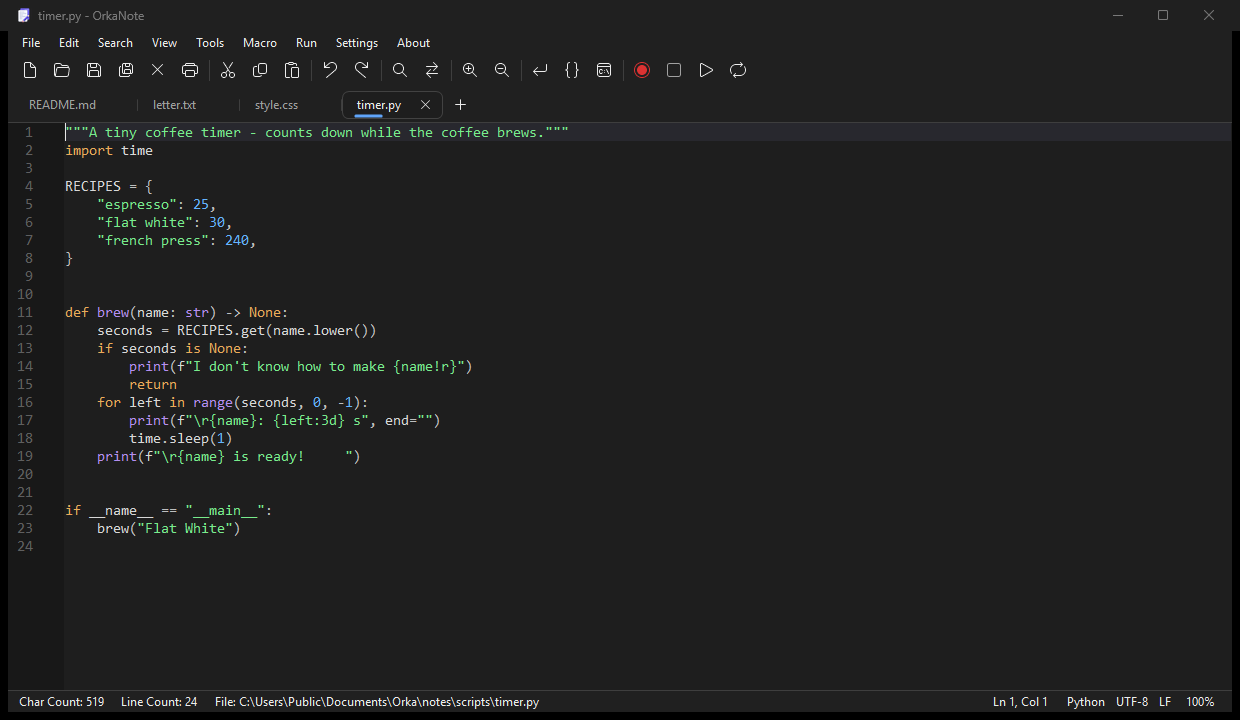
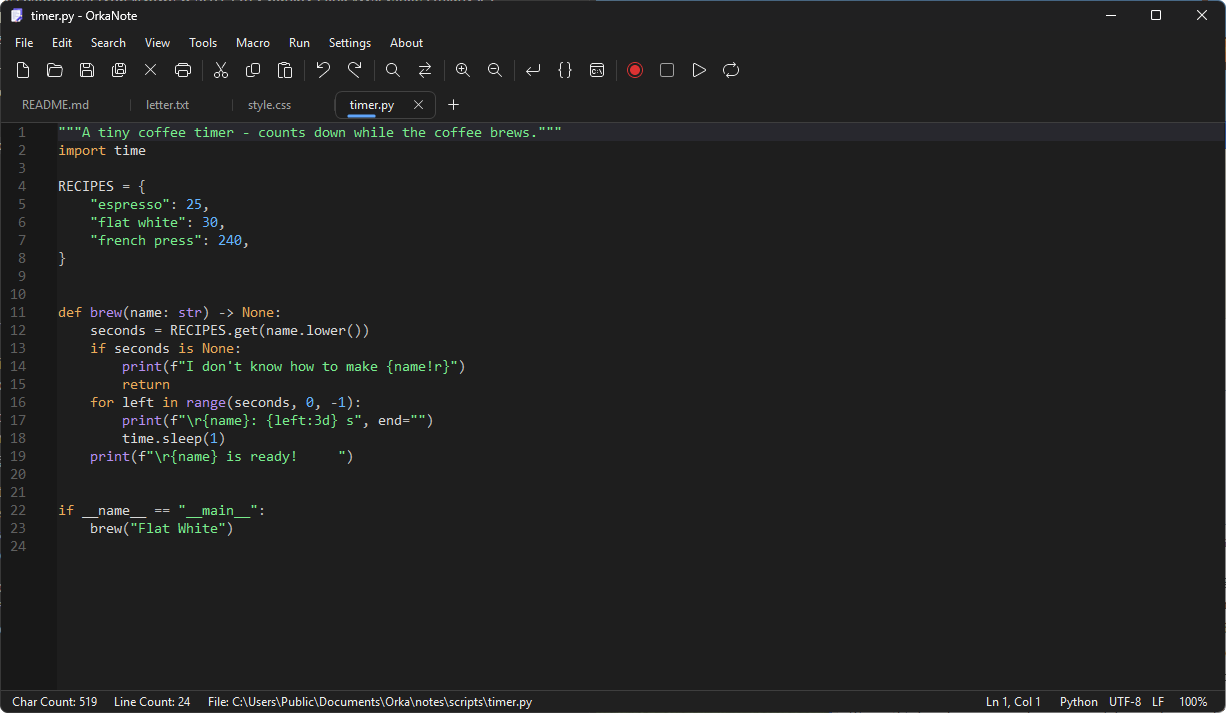
README: 3.1.1, new screenshots

diff --git a/README.md b/README.md
@@ -6,7 +6,7 @@ A Notepad for Windows with tabs that come back after closing, colours for code, 
 
 **[Download the latest version](https://github.com/cyz-yt/OrkaNote/releases/latest)** · [Website](https://cyzs-retroweb.rf.gd/orkanote.php)
 
-Current version: **3.1 "Bancha"**
+Current version: **3.1.1 "Bancha"**
 
 ## What it does
 
@@ -40,8 +40,8 @@ Current version: **3.1 "Bancha"**
 - A file changed by another program reloads by itself, or OrkaNote asks first if you changed it too.
 - OrkaNote can sit in "Open with" for text files and add "Edit with OrkaNote" to the right-click menu.
 
-**Light, dark or like Windows, Windows 11 style**
-- The dark theme darkens the whole window: menus, tabs, title bar, scroll bars and dialogs. By default it follows Windows.
+**Light or dark, Windows 11 style - or classic**
+- The dark theme darkens the whole window: menus, tabs, title bar, scroll bars and dialogs. At first it is the same as Windows - pick the other one in Settings. The classic look gives square menus, tabs and buttons, like Windows 10.
 - Windows in 8 languages: English, Polish, German, Spanish, French, Italian, Portuguese and Ukrainian - or make your own.
 
 ## Screenshots
@@ -52,14 +52,16 @@ Current version: **3.1 "Bancha"**
 | The Markdown preview in the dark theme | Spelling |
 | ![Find in Files](screenshots/find-in-files.png) | ![Colours in CSS](screenshots/css-colours.png) |
 | Find in Files | Colours in CSS |
-| ![Dark theme](screenshots/main-dark.png) | ![Run](screenshots/run.png) |
+| ![Dark theme](screenshots/dark-python.png) | ![Run](screenshots/run.png) |
 | The dark theme | Running a Python script with F9 |
 | ![Tools](screenshots/tools-menu.png) | ![Settings](screenshots/settings.png) |
 | The Tools menu | Settings |
+| ![Classic look](screenshots/classic.png) | |
+| The classic look (3.1.1) | |
 
 ## Installing
 
-1. Download `OrkaNote-3.1-setup.exe` from [Releases](https://github.com/cyz-yt/OrkaNote/releases/latest).
+1. Download `OrkaNote-3.1.1-setup.exe` from [Releases](https://github.com/cyz-yt/OrkaNote/releases/latest).
 2. Run it. Windows may show "Windows protected your PC", because the installer is not code-signed. Click **More info**, then **Run anyway**.
 3. Have OrkaNote 2.5? Setup finds it and offers to remove it.
 4. **Express** installs everything. **Custom** lets you pick - including **Just the editor**, which leaves out the toolbar, Tools, macros, Run, update checks and problem reports: a plain notepad that never goes online.
@@ -71,7 +73,7 @@ Current version: **3.1 "Bancha"**
 **Quiet install** (for scripts):
 
 ```
-OrkaNote-3.1-setup.exe /SILENT /CURRENTUSER /openwith=yes /updates=yes /theme=dark
+OrkaNote-3.1.1-setup.exe /SILENT /CURRENTUSER /openwith=yes /updates=yes /theme=dark
 ```
 
 `/openwith=no` leaves file associations alone, `/contextmenu=yes` adds "Edit with OrkaNote", `/updates=no` turns off the update check, `/TYPE=compact` installs just the editor, and `/ALLUSERS` installs for everyone.
@@ -101,6 +103,14 @@ OrkaNote-3.1-setup.exe /SILENT /CURRENTUSER /openwith=yes /updates=yes /theme=da
 - **Problem reports:** sent only when you click **Send Report**. You see every line first, and there is none of your text, file names, folders or your Windows user name in it. *Settings > General*
 
 Both can be left out in Setup ("Just the editor").
+
+## Changes in 3.1.1 "Bancha"
+
+- A classic Windows 10 look: square menus, tabs and buttons.
+- Light or dark, the same as Windows at first.
+- A language editor in Settings. The Polish is written from scratch.
+- "Print" in the Explorer right-click menu, and the Explorer menu in the program's language.
+- A new "Up to Date" window.
 
 ## Changes in 3.1 "Bancha"
 
